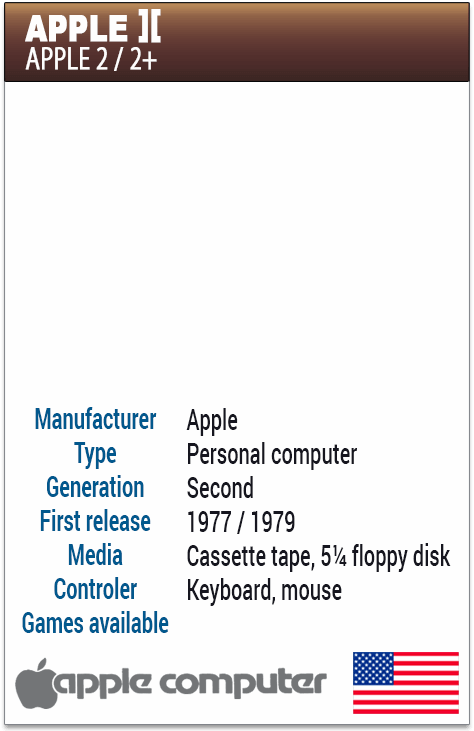
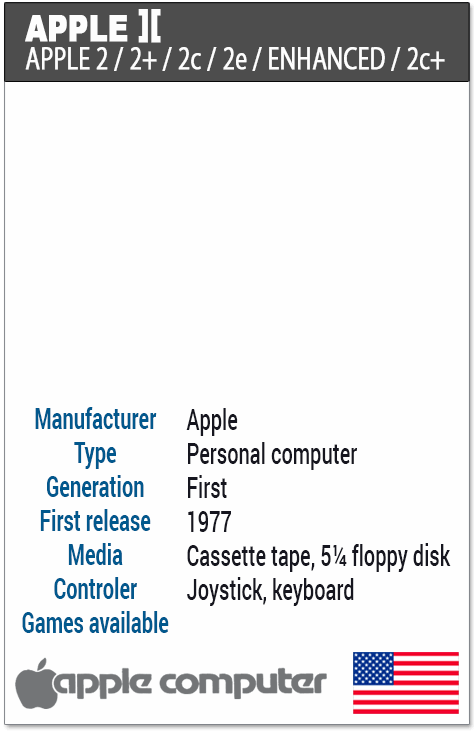
- Add final APPLE 2 theme based on Karateka - Update APPLE 2GS theme text informations - Update APPLE 2GS Background and Console image - Add new PSX background Music set - Update GBA and GC background Music set - Updates 3 description translation files

diff --git a/README.md b/README.md
@@ -106,8 +106,8 @@ I share the files separately because I regularly plan to update them and add new
 - [NES](http://www.mediafire.com/folder/8q41aqwytbs4k/nes)
 - [PCEngine](http://www.mediafire.com/folder/ajyti1l4zbvsi/pcengine)
 - [PCENGINE CD](http://www.mediafire.com/folder/ru5syfj47v2xf/pcenginecd)
+- [PSX](http://www.mediafire.com/folder/976hl1rzp4b29/psx)
 - [SNES](http://www.mediafire.com/folder/o9t2bsui14jl6/snes)
-
 
 ### Customising
 
